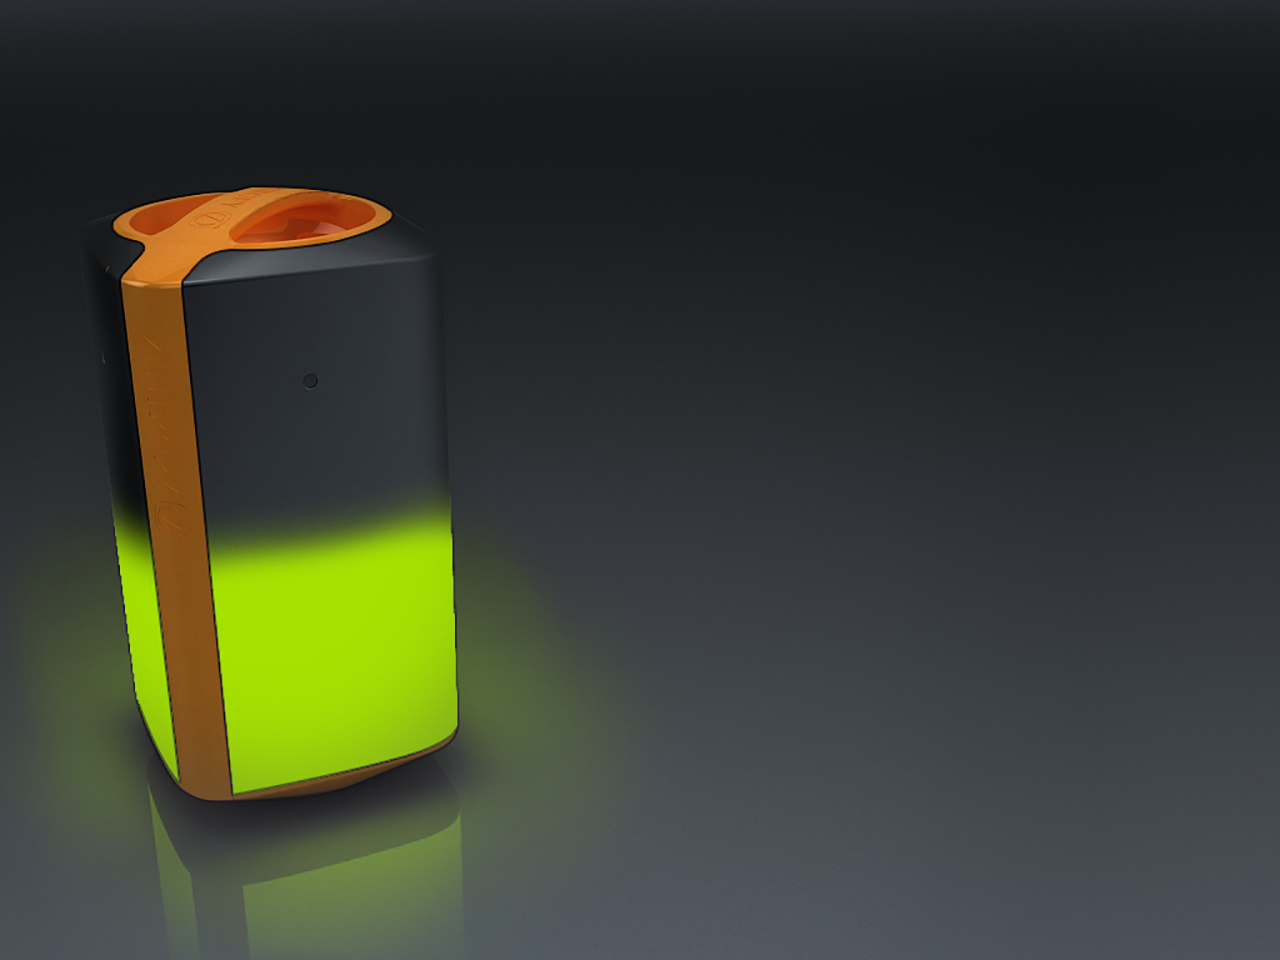
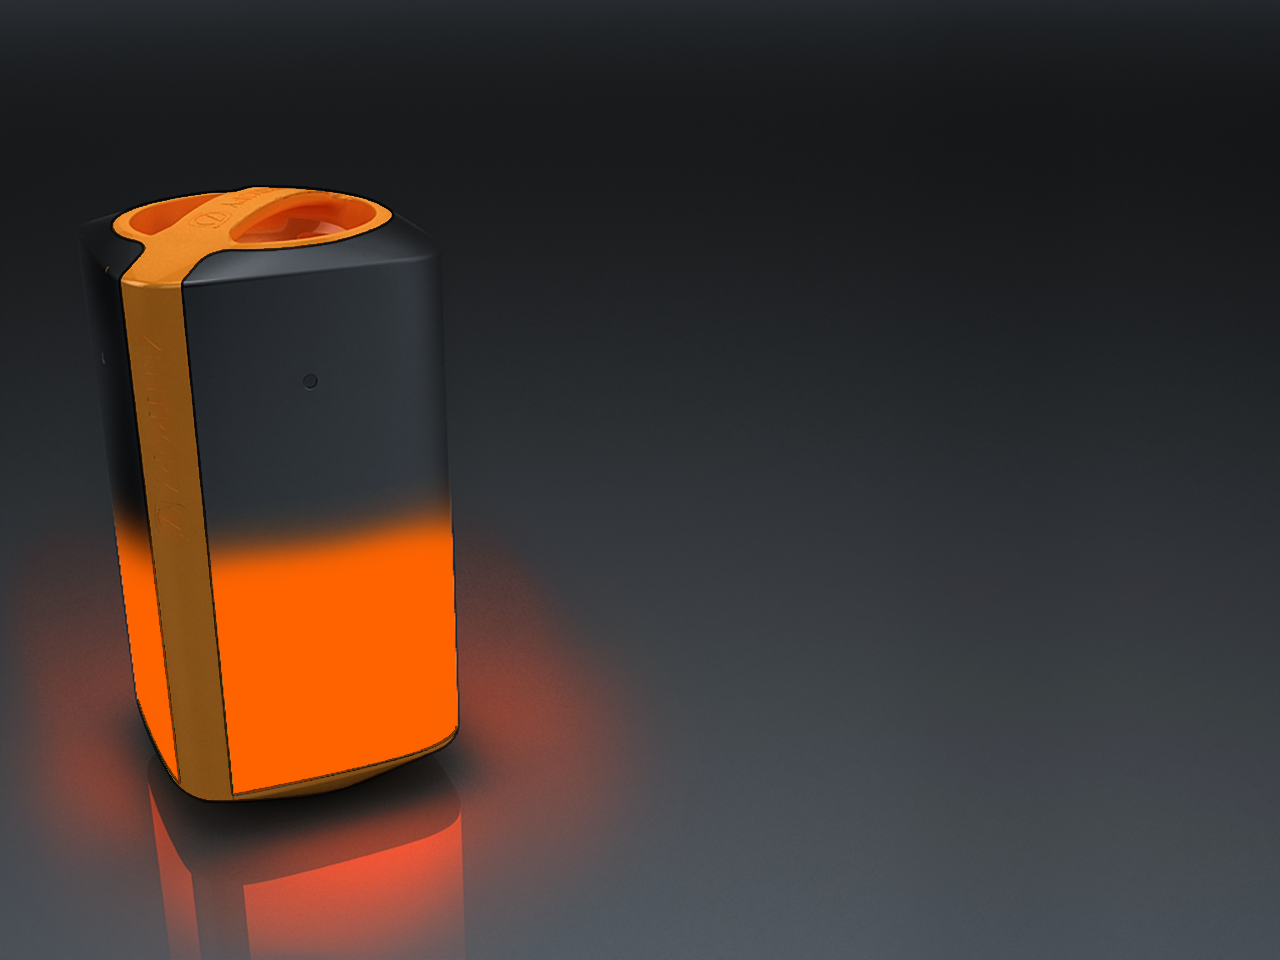
image change & GPIO init

Changed region(s): [[0.0312, 0.5312, 0.5, 1.0], [0.0938, 0.1875, 0.3125, 0.2812]]

diff --git a/source/view.py b/source/view.py
@@ -78,7 +78,8 @@ SentanceY	= 773
 NoBatteryX  = 468 + 468/2 + 100
 NoBatteryY  = 431
 run = True
-Thread1 = None
+UART_Thread = None #Data and Charge
+VIEW_Thread = None #View Cycle
 
 BACKGROUND 	= None
 THIRD		= None
@@ -106,7 +107,7 @@ S1_flag = 0
 S2_flag = 0
 S3_flag = 0
 
-#output...
+#output...LED
 CHARGE_EN1 = 18
 CHARGE_EN2 = 23
 CHARGE_EN3 = 24
@@ -118,11 +119,23 @@ DOOR_EN2 = 16
 DOOR_EN3 = 20
 DOOR_EN4 = 21
 
+
 #input...
 SOL_OFF_EN1 = 17
 SOL_OFF_EN2 = 27
 SOL_OFF_EN3 = 22
 SOL_OFF_EN4 = 5
+
+
+#OUTPUT..CHARGE
+VIN1_EN = 6
+VIN2_EN = 13
+VIN3_EN = 19
+VIN4_EN = 26
+
+QC_CH_EN1 = 8
+QC_CH_EN2 = 7
+
 
 ########################################################################################
 
@@ -159,17 +172,19 @@ NAME_FIELD   = PhotoImage(file="image/name_field.png")
 BED_BATTERY = PhotoImage(file="image/bed_battery.png")
 
 
-DICT_NFC0 = {b"01": None, b"02" : None, b"03" : None, b"04" : None, b"05": None, b"06": None, "view" : 0}
-DICT_NFC1 = {b"01": None, b"02" : None, b"03" : None, b"04" : None, b"05": None, b"06": None, "view" : 0}
-DICT_NFC2 = {b"01": None, b"02" : None, b"03" : None, b"04" : None, b"05": None, b"06": None, "view" : 0}
-DICT_NFC3 = {b"01": None, b"02" : None, b"03" : None, b"04" : None, b"05": None, b"06": None, "view" : 0}
-DICT_NFC4 = {b"01": None, b"02" : None, b"03" : None, b"04" : None, b"05": None, b"06": None, "view" : 0}
-DICT_NFC5 = {b"01": None, b"02" : None, b"03" : None, b"04" : None, b"05": None, b"06": None, "view" : 0}
-DICT_NFC6 = {b"01": None, b"02" : None, b"03" : None, b"04" : None, b"05": None, b"06": None, "view" : 0}
-DICT_NFC7 = {b"01": None, b"02" : None, b"03" : None, b"04" : None, b"05": None, b"06": None, "view" : 0}
+DICT_NFC0 = {b"01": None, b"02" : None, b"03" : None, b"04" : None, b"05": None, b"06": None, "view" : 0, "charge" : False}
+DICT_NFC1 = {b"01": None, b"02" : None, b"03" : None, b"04" : None, b"05": None, b"06": None, "view" : 0, "charge" : False}
+DICT_NFC2 = {b"01": None, b"02" : None, b"03" : None, b"04" : None, b"05": None, b"06": None, "view" : 0, "charge" : False}
+DICT_NFC3 = {b"01": None, b"02" : None, b"03" : None, b"04" : None, b"05": None, b"06": None, "view" : 0, "charge" : False}
+DICT_NFC4 = {b"01": None, b"02" : None, b"03" : None, b"04" : None, b"05": None, b"06": None, "view" : 0, "charge" : False}
+DICT_NFC5 = {b"01": None, b"02" : None, b"03" : None, b"04" : None, b"05": None, b"06": None, "view" : 0, "charge" : False}
+DICT_NFC6 = {b"01": None, b"02" : None, b"03" : None, b"04" : None, b"05": None, b"06": None, "view" : 0, "charge" : False}
+DICT_NFC7 = {b"01": None, b"02" : None, b"03" : None, b"04" : None, b"05": None, b"06": None, "view" : 0, "charge" : False}
 
 DICT_ARR = [DICT_NFC0, DICT_NFC1, DICT_NFC2, DICT_NFC3, DICT_NFC4, DICT_NFC5, DICT_NFC6, DICT_NFC7]
 
+
+# weather view...
 def waitView():
 
 	global BACKGROUND, NAMEFIELD, GREET, FIRST, SECOND, THIRD, MARK, SENTENCE, NOBATTERY, NAME
@@ -256,7 +271,7 @@ def quit(*args):
 	global root, run
 	root.destroy()
 	run = False
-	Thread1.join()
+	UART_Thread.join()
 	GPIO.cleanup()
 
 	
@@ -330,6 +345,8 @@ def battery(index, name, value):
 		canvas.coords(FIRST ,Bat_FirstX, Bat_FirstY)
 		canvas.coords(SECOND, Bat_SecondX, Bat_SecondY)
 		canvas.coords(MARK, Bat_MarkX, Bat_MarkY)
+
+		## Thread Start..
 	except ValueError:
 		logging.error("FUNC[battery] Value Error...")
 		parameter = str(index) + ", " + str(name) + "," + str(value)
@@ -353,23 +370,17 @@ def uart_server():
 
 	UART = serial.Serial(USBPORT, BAUDRATE, timeout = UART_TIME)
 
-	GPIO.setmode(GPIO.BCM)
-	GPIO.setup(S1, GPIO.OUT)
-	GPIO.setup(S2, GPIO.OUT)
-	GPIO.setup(S3, GPIO.OUT)
-
 	### First Uart..
 	index = 0
 	while run:
 
-		if index == 3:
+		if index == 4:
 			index = 0
 
 		convert(index)
 		GPIO.output(S1, S1_flag)
 		GPIO.output(S2, S2_flag)
 		GPIO.output(S3, S3_flag)
-
 
 		UART.write(b"#R,T,00\r\n")
 
@@ -392,29 +403,58 @@ def uart_server():
 				name = DICT_ARR[index][b"01"]
 				value = DICT_ARR[index][b"05"]
 
-
-
 				if view == 1 and name != None and value != None:
 					logging.info("NAME : " + name + " VALUE : " + value + " VIEW : " + str(view))
 					battery(index, name, int(value))
 					DICT_ARR[index]["view"] = -1 # view -> wait..
-
+					DICT_ARR[index]["charge"] = True # charge start...
 				elif view == 1 and name == None: # nothing value... is bad view..
 					badView()
 					DICT_ARR[index]["view"] = -1
-
 
 			else:
 				logging.info("[READ] " + readData.decode("ascii"))
 				dict_init(index)
 			index += 1
+
 		except TypeError:
 			logging.error("FUNC[uart_server] TypeError")
-		
+
+def view_server():
+	 pass
 def init():
 	
-	global canvas, frame, Thread1
-	
+	global canvas, frame, UART_Thread
+	##########################GPIO##########################
+	GPIO.setmode(GPIO.BCM)
+	GPIO.setup(S1, GPIO.OUT)
+	GPIO.setup(S2, GPIO.OUT)
+	GPIO.setup(S3, GPIO.OUT)
+
+	GPIO.setup(CHARGE_EN1, GPIO.OUT)
+	GPIO.setup(CHARGE_EN2, GPIO.OUT)
+	GPIO.setup(CHARGE_EN3, GPIO.OUT)
+	GPIO.setup(CHARGE_EN4, GPIO.OUT)
+
+	GPIO.setup(DOOR_EN1, GPIO.OUT)
+	GPIO.setup(DOOR_EN2, GPIO.OUT)
+	GPIO.setup(DOOR_EN3, GPIO.OUT)
+	GPIO.setup(DOOR_EN4, GPIO.OUT)
+
+	GPIO.setup(SOL_OFF_EN1, GPIO.IN)
+	GPIO.setup(SOL_OFF_EN2, GPIO.IN)
+	GPIO.setup(SOL_OFF_EN3, GPIO.IN)
+	GPIO.setup(SOL_OFF_EN4, GPIO.IN)
+
+	GPIO.setup(VIN1_EN, GPIO.OUT)
+	GPIO.setup(VIN2_EN, GPIO.OUT)
+	GPIO.setup(VIN3_EN, GPIO.OUT)
+	GPIO.setup(VIN4_EN, GPIO.OUT)
+
+	GPIO.setup(QC_CH_EN1, GPIO.OUT)
+	GPIO.setup(QC_CH_EN2, GPIO.OUT)
+
+	##########################LOG###########################
 	now = datetime.datetime.now()
 	logFile = "./logs/" + now.strftime("%m%d%H%M_") + "battery.log"
 	parser = optparse.OptionParser()
@@ -426,18 +466,17 @@ def init():
 						format='%(asctime)s %(levelname)s: %(message)s',
 						datefmt='%Y-%m-%d %H:%M:%S',
 						filemode='w')
-
+	########################################################
 	root.attributes("-fullscreen", True)
-
 	root.bind("<Escape>", quit)    
-	root.bind("x", quit) 
-
+	root.bind("x", quit)
 	frame.pack()
+	#########################THREAD#########################
+	UART_Thread = threading.Thread(target=uart_server)
 
-	Thread1 = threading.Thread(target=uart_server)
+	UART_Thread.start()
 
-
-	Thread1.start()
+	########################################################
 	root.after(100, hello_after)
 	root.mainloop()
 
@@ -523,6 +562,7 @@ def dict_init(index):
 	DICT_ARR[index][b"05"] = None 
 	DICT_ARR[index][b"06"] = None 
 	DICT_ARR[index]["view"] = 0  # 0 : default / 1 : view flag / -1 : wait
+	DICT_ARR[index]["charge"] = False
 
 
 
